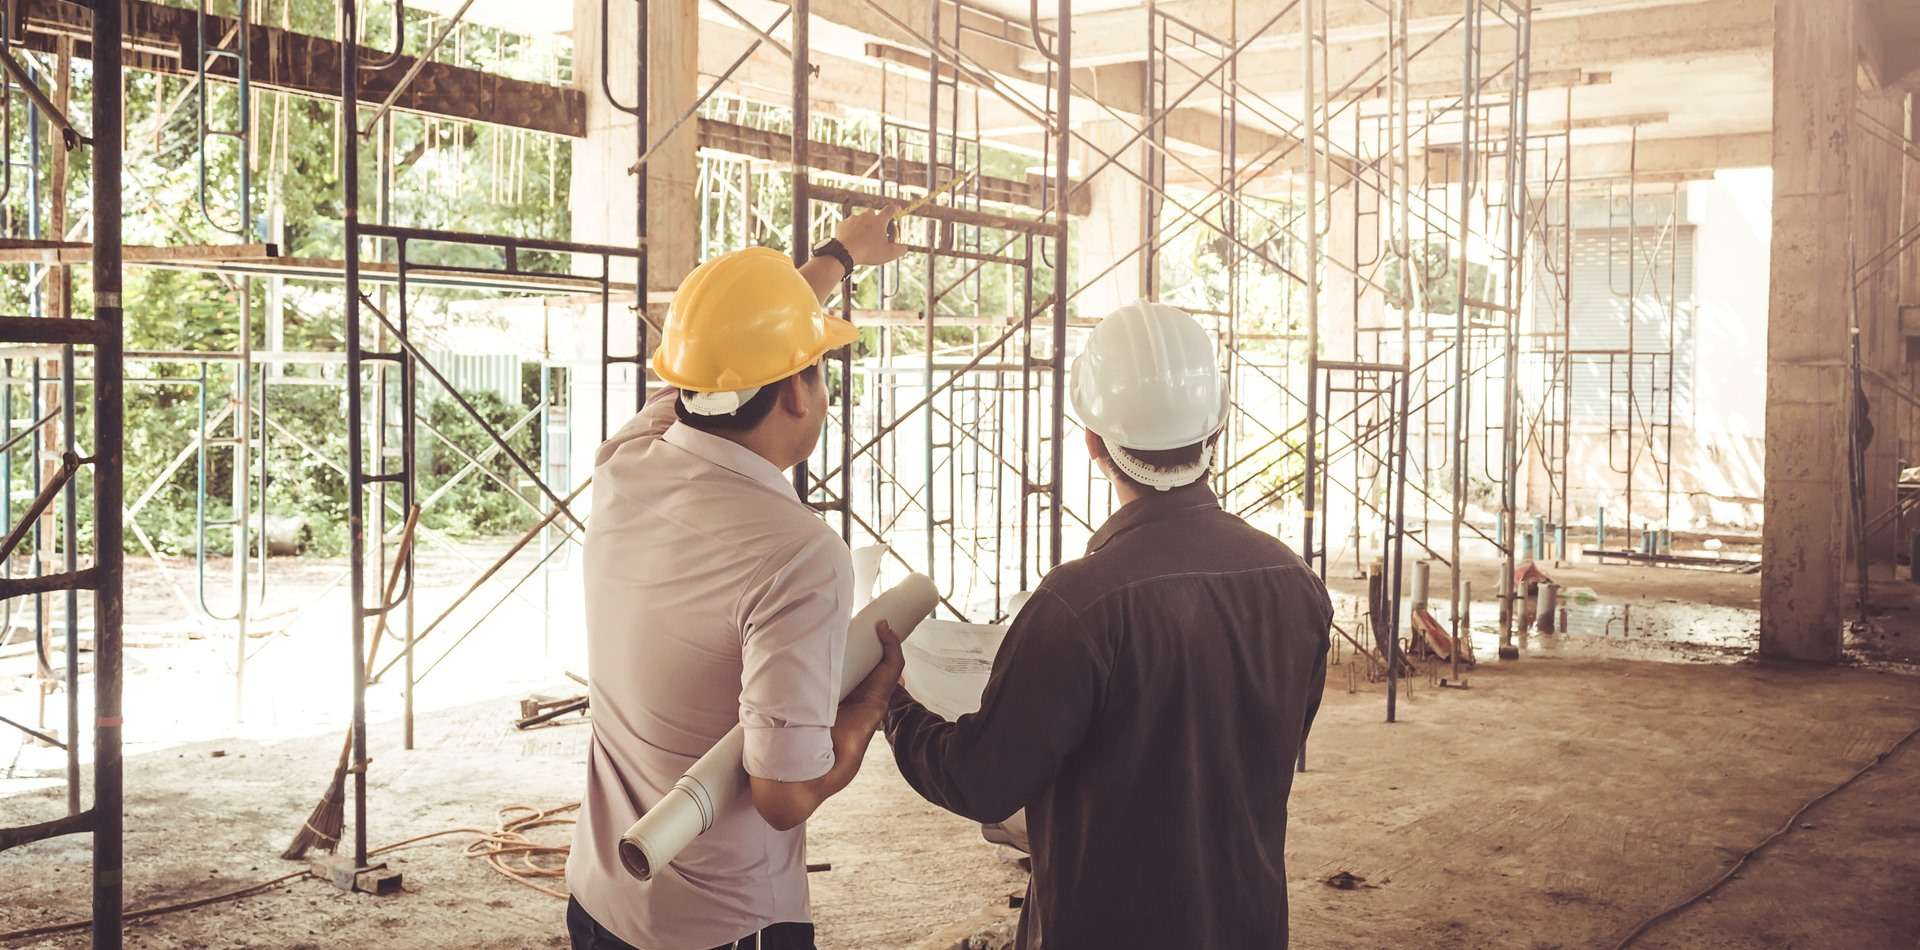
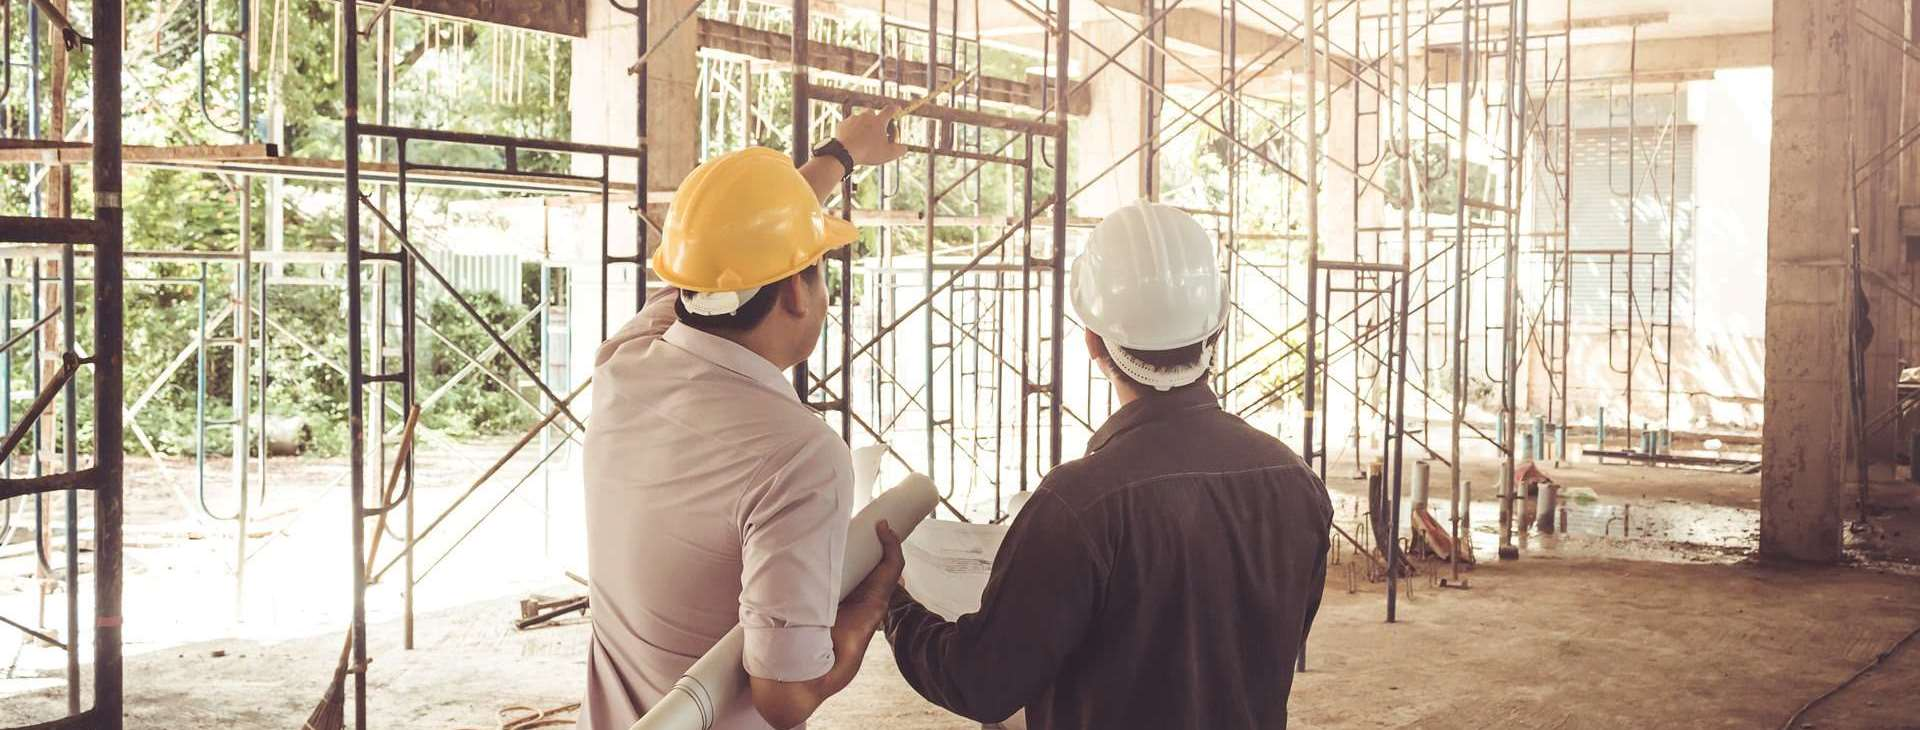
Ubacene nove Hero slike na str Standardi i zasto Pancevo

diff --git a/standardi-kvaliteta.html b/standardi-kvaliteta.html
@@ -124,7 +124,7 @@
                     type="image/jpg">
 
             <img class="d-block img-fluid hero-img" src="images/gradiliste-pancevo-hero.jpg"
-                 alt="gradiliste-pancevo-hero" width="1920" height="950">
+                 alt="gradiliste-pancevo-hero" width="1920" height="730">
         </picture>
     </section>
     <section class="pb-4 projekat">

diff --git a/zasto-pancevo.html b/zasto-pancevo.html
@@ -124,7 +124,7 @@
                     type="image/jpg">
 
             <img class="d-block img-fluid hero-img" src="images/zasto-grad-pancevo-hero.jpg"
-                 alt="zasto-grad-pancevo-hero" width="1920" height="950">
+                 alt="zasto-grad-pancevo-hero" width="1920" height="730">
         </picture>
     </section>
     <section class="pb-4 projekat">

diff --git a/lokacija.html b/lokacija.html
@@ -124,7 +124,7 @@
                     type="image/jpg">
 
             <img class="d-block img-fluid hero-img" src="images/grad-pancevo-hero.jpg"
-                 alt="grad-pancevo-hero" width="1920" height="950">
+                 alt="grad-pancevo-hero" width="1920" height="730">
         </picture>
     </section>
     <section class="pb-4 projekat">

diff --git a/projekat.html b/projekat.html
@@ -124,7 +124,7 @@
                     type="image/jpg">
 
             <img class="d-block img-fluid hero-img" src="images/grad-pancevo-hero.jpg"
-                 alt="grad-pancevo-hero" width="1920" height="950">
+                 alt="grad-pancevo-hero" width="1920" height="730">
         </picture>
     </section>
     <section class="pb-4 projekat">
